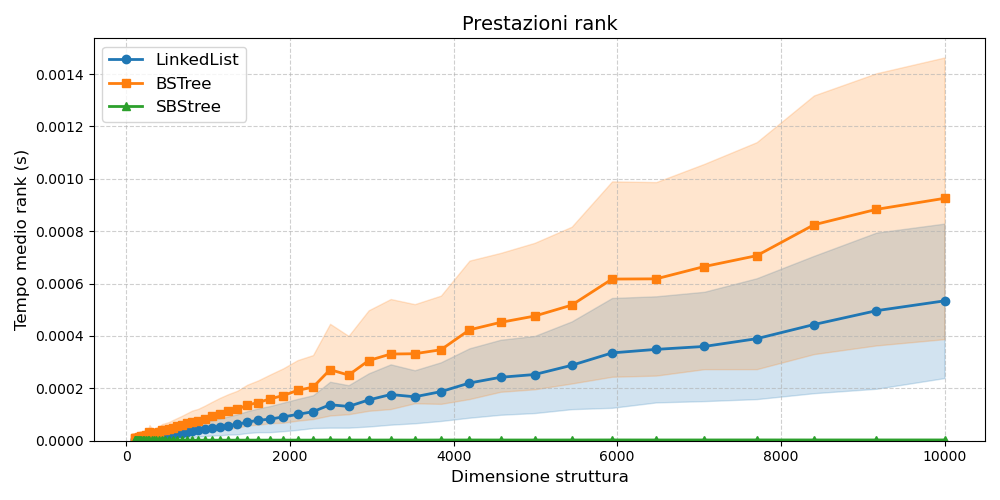
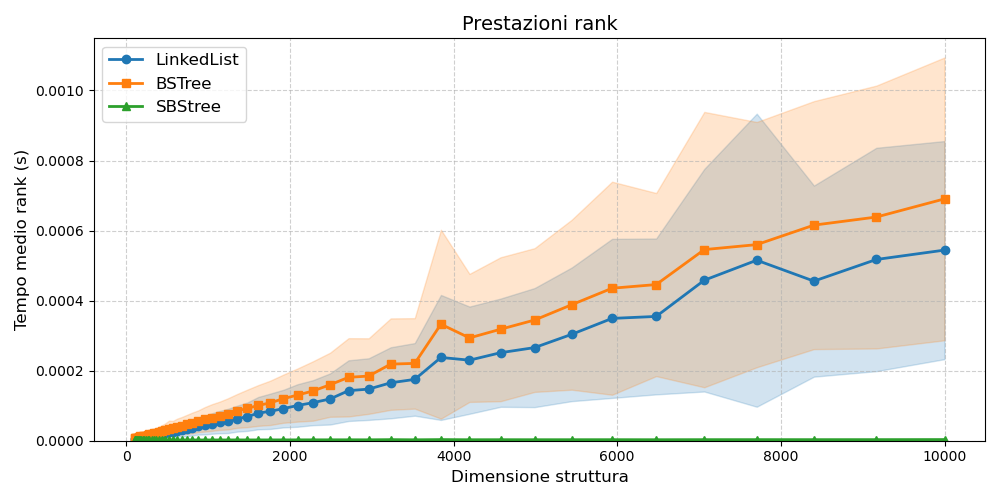
FEAT: fixed rank

diff --git a/src/Tester.py b/src/Tester.py
@@ -9,9 +9,10 @@ import numpy as np
 
 class StructureTester:
 
-    def __init__(self, sizes=None, datasets_per_n=12, count=120, calls_per_test=30, warmup_calls=20):
+    def __init__(self, sizes=None, datasets_per_n=10, count=120, calls_per_test=30, warmup_calls=20):
         if sizes is None:
             sizes = np.unique(np.logspace(2, 4, 54, dtype=int))   # da 100 a ~1000, 25 punti
+            sizes = np.unique(np.logspace(2, 4, 50, dtype=int))   # da 100 a ~1000, 25 punti
         self.sizes = sizes
         self.datasets_per_n = datasets_per_n  # se >1 si possono aggregare più dataset per ogni n
         self.count = count                      # numero di k scelti per n (campioni per n)
@@ -52,11 +53,12 @@ class StructureTester:
                 structure.select(k)
             elapsed_select = (time.perf_counter() - start) / self.calls_per_test
             samples_select.append(elapsed_select)
+            x = structure.select(k).get_data()
 
             # measure rank
             start = time.perf_counter()
             for __ in range(self.calls_per_test):
-                structure.rank(k)
+                structure.rank(x)
             elapsed_rank = (time.perf_counter() - start) / self.calls_per_test
             samples_rank.append(elapsed_rank)
 
